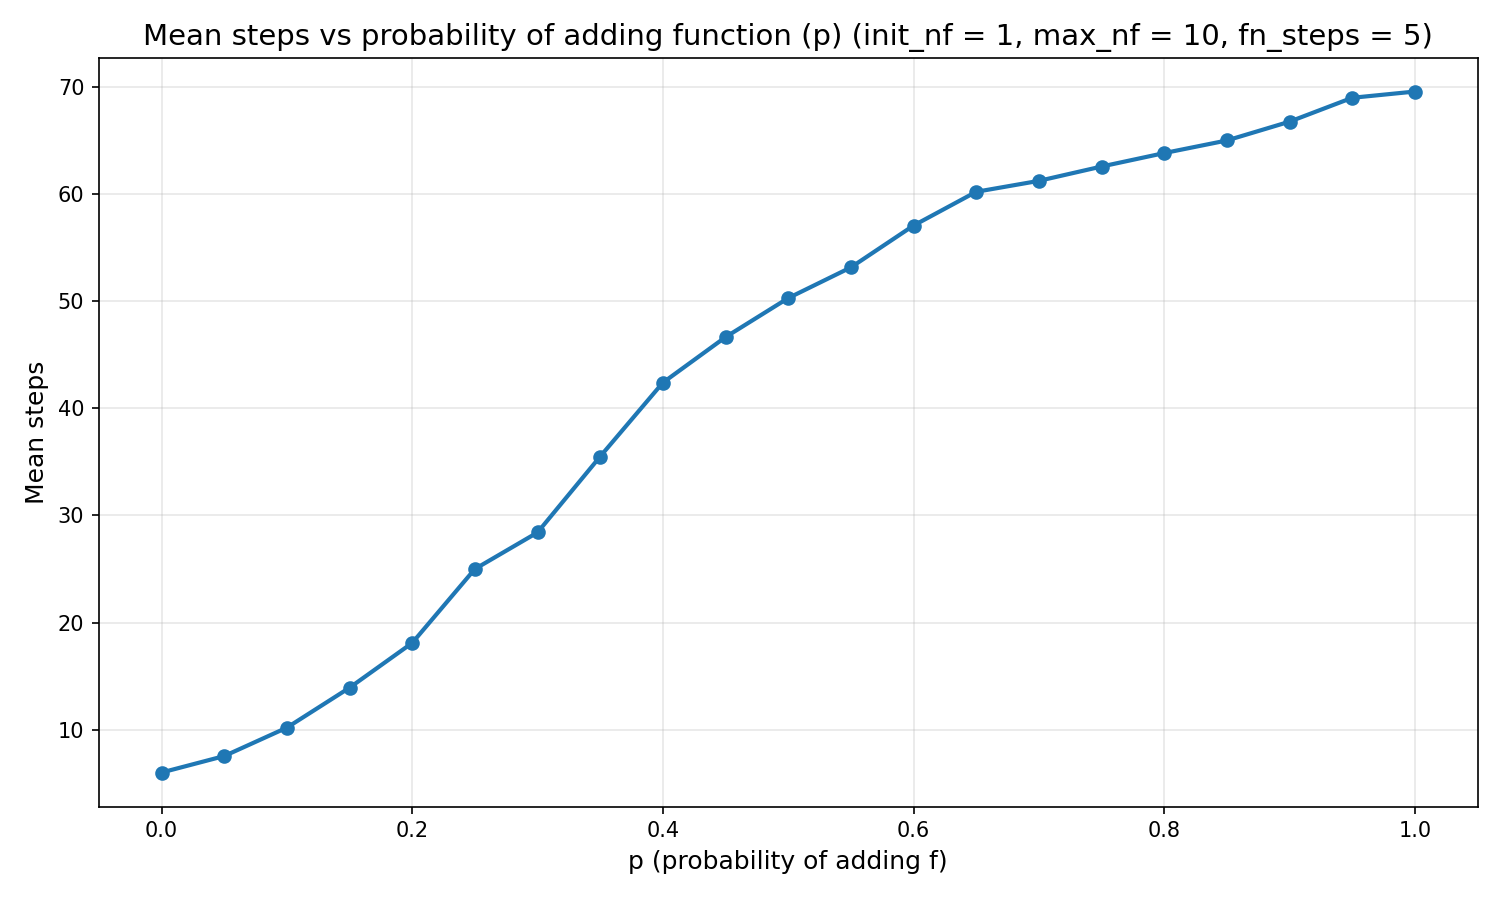
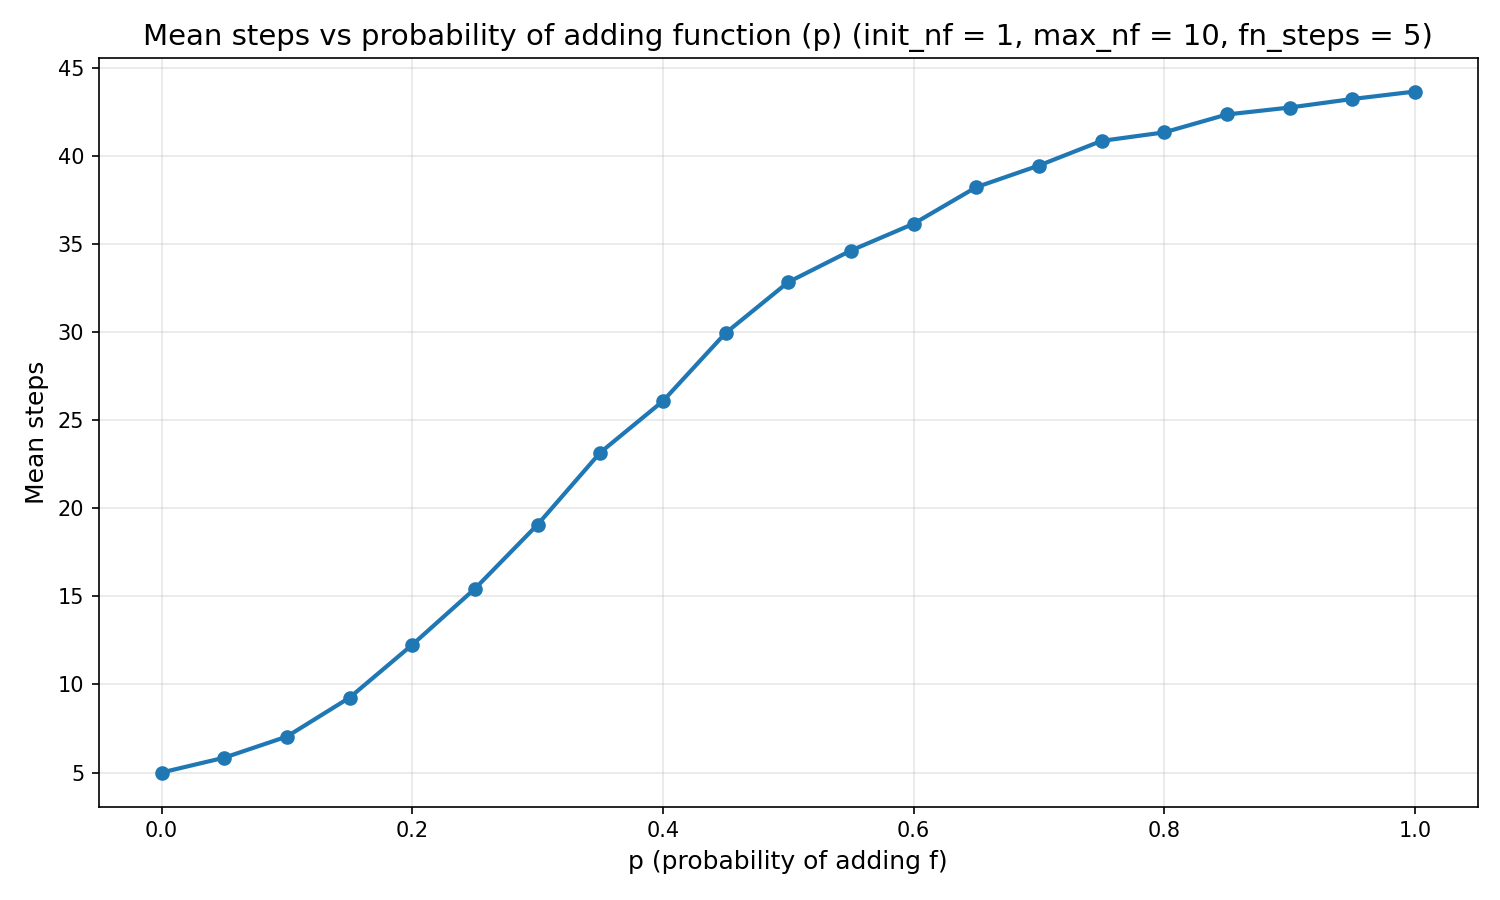
fixed bug in code

diff --git a/docs/execution_time.py b/docs/execution_time.py
@@ -8,13 +8,16 @@ def simulate(fn_steps: int, init_nf: int, max_nf: int, p_add_f: float) -> int:
     ks = [0] * init_nf
 
     # probability 1/len(ks), increment ki, ki <= T; len(ks) <= F.
-    while ks[0] <= fn_steps:
+    while ks[0] < fn_steps:
         add_fn = r.random() < p_add_f
         if add_fn and len(ks) < max_nf:
             ks.append(1)
         else: 
-            # choose one of ks
-            i_ks = r.randrange(0, len(ks))
+            # index of incrementable ks terms
+            ks_arr = np.array(ks)
+            incrementable_ixs = np.argwhere(ks_arr < fn_steps).T[0]
+
+            i_ks = r.choice(incrementable_ixs)
             ks[i_ks] += 1
         steps += 1
     
